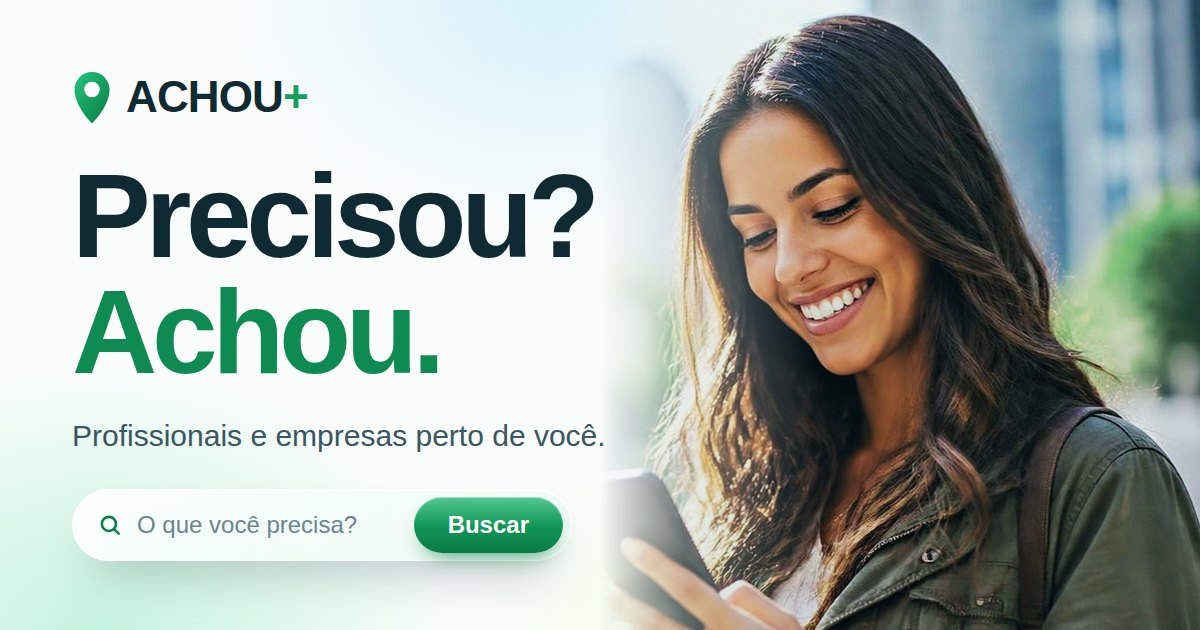
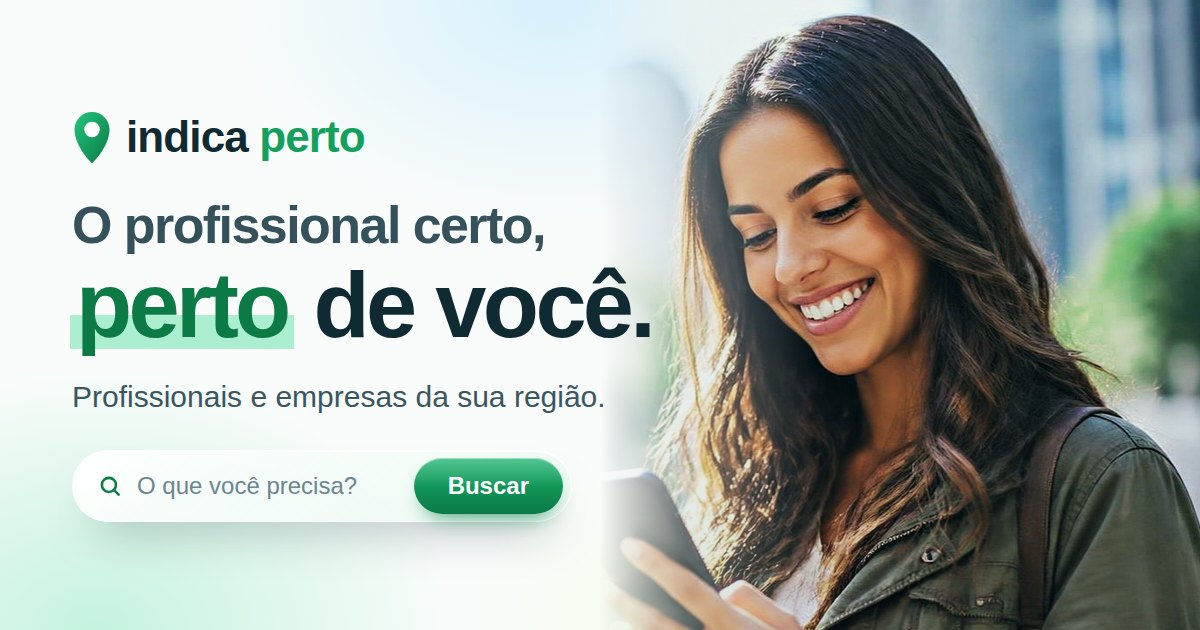
Add files via upload

Changed region(s): [[0.0308, 0.0905, 0.555, 0.9349]]

diff --git a/index.html b/index.html
@@ -3,21 +3,21 @@
 <head>
 <meta charset="utf-8">
 <meta name="viewport" content="width=device-width, initial-scale=1">
-<title>ACHOU+ — Precisou? Achou. Profissionais perto de você</title>
+<title>Indica Perto — O profissional certo, perto de você</title>
 <meta name="description" content="Encontre profissionais e empresas de confiança perto de você. Busque por categoria, veja avaliações e chame no WhatsApp na hora.">
-<meta property="og:title" content="ACHOU+ — Precisou? Achou.">
+<meta property="og:title" content="Indica Perto — O profissional certo, perto de você">
 <meta property="og:description" content="Profissionais e empresas de confiança perto de você, em segundos.">
 <meta property="og:type" content="website">
 <meta name="twitter:card" content="summary_large_image">
 <!-- Vista previa ao compartilhar + ícones. Ao trocar de domínio, atualize as URLs abaixo (og:url, og:image, twitter:image). -->
-<meta property="og:site_name" content="ACHOU+">
+<meta property="og:site_name" content="Indica Perto">
 <meta property="og:locale" content="pt_BR">
 <meta property="og:url" content="https://addlabsbr.github.io/achou-plus/">
 <meta property="og:image" content="https://addlabsbr.github.io/achou-plus/og-image.jpg">
 <meta property="og:image:type" content="image/jpeg">
 <meta property="og:image:width" content="1200">
 <meta property="og:image:height" content="630">
-<meta property="og:image:alt" content="ACHOU+ — Precisou? Achou. Profissionais e empresas perto de você">
+<meta property="og:image:alt" content="Indica Perto — O profissional certo, perto de você">
 <meta name="twitter:image" content="https://addlabsbr.github.io/achou-plus/og-image.jpg">
 <meta name="theme-color" content="#0F9A57">
 <link rel="icon" type="image/svg+xml" href="favicon.svg">
@@ -25,7 +25,7 @@
 <link rel="apple-touch-icon" href="apple-touch-icon.png">
 <link rel="preconnect" href="https://fonts.googleapis.com">
 <link rel="preconnect" href="https://fonts.gstatic.com" crossorigin>
-<link href="https://fonts.googleapis.com/css2?family=Plus+Jakarta+Sans:wght@500;600;700;800&family=Inter:wght@400;500;600&family=Caveat:wght@600&family=JetBrains+Mono:wght@500;600&display=swap" rel="stylesheet">
+<link href="https://fonts.googleapis.com/css2?family=Plus+Jakarta+Sans:wght@500;600;700;800&family=Inter:wght@400;500;600&family=Bricolage+Grotesque:opsz,wght@12..96,600..800&family=JetBrains+Mono:wght@500;600&display=swap" rel="stylesheet">
 <script src="https://www.gstatic.com/firebasejs/10.12.2/firebase-app-compat.js"></script>
 <script src="https://www.gstatic.com/firebasejs/10.12.2/firebase-auth-compat.js"></script>
 <script src="https://www.gstatic.com/firebasejs/10.12.2/firebase-firestore-compat.js"></script>
@@ -76,8 +76,6 @@ html{scroll-padding-top:96px}
 .hero::before{content:"";position:absolute;inset:0;z-index:-1;pointer-events:none;background:linear-gradient(90deg,rgba(250,252,251,.98) 0%,rgba(250,252,251,.93) 26%,rgba(250,252,251,.62) 44%,rgba(250,252,251,.12) 60%,rgba(250,252,251,0) 70%),linear-gradient(180deg,rgba(250,252,251,.26) 0%,rgba(250,252,251,0) 20%)}
 .hero-sheet{position:absolute;left:0;right:0;bottom:0;height:46px;z-index:0;background:var(--bg);border-radius:42px 42px 0 0;box-shadow:0 -24px 46px -28px rgba(15,42,51,.30)}
 .hero-inner{position:relative;z-index:1;width:100%;max-width:1180px;margin:0 auto;padding:0 20px;display:grid;grid-template-columns:minmax(0,1.05fr) minmax(0,.95fr);gap:clamp(24px,4vw,52px);align-items:center}
-.hero h1{font-size:clamp(40px,6.4vw,68px);line-height:1.02;font-weight:800;margin:16px 0 0}
-.hero h1 .line-2{display:block;color:var(--green);background:linear-gradient(100deg,#0B7A45 0%,#15A862 70%,#22BF78 100%);-webkit-background-clip:text;background-clip:text;-webkit-text-fill-color:transparent}
 .hero-copy>p:not(.hero-note){color:#2F4A55;font-size:clamp(16px,1.6vw,18px);max-width:460px;margin:16px 0 0}
 .location-pill{display:inline-flex;align-items:center;gap:9px;background:rgba(255,255,255,.58);border:1px solid rgba(18,160,92,.28);color:var(--green-d);padding:8px 16px;border-radius:999px;font-family:'JetBrains Mono',monospace;font-size:11px;letter-spacing:.12em;font-weight:600;text-transform:uppercase;-webkit-backdrop-filter:blur(14px) saturate(160%);backdrop-filter:blur(14px) saturate(160%);box-shadow:inset 0 1px 0 rgba(255,255,255,.9),0 8px 18px -12px rgba(15,42,51,.35)}
 .location-pill:hover,.location-pill.active{background:rgba(230,246,236,.85)}
@@ -386,6 +384,47 @@ footer::before{content:"";position:absolute;inset:0;z-index:-1;pointer-events:no
 .load-more:hover{transform:translateY(-1px);border-color:rgba(18,160,92,.4)}
 .load-more:disabled{opacity:.6;cursor:default;transform:none}
 
+/* TIPOGRAFÍA DE MARCA — para probar otra fuente cambia solo la variable (p. ej. 'Sora', 'Outfit' o 'Manrope') y el nombre en el <link> de Google Fonts */
+:root{--font-display:'Bricolage Grotesque','Plus Jakarta Sans','Inter',system-ui,sans-serif}
+#siteHeader .logo{font-family:var(--font-display);font-size:27px;font-weight:800;letter-spacing:-.045em;gap:7px;line-height:1}
+.f-brand strong{font-family:var(--font-display);font-size:30px;letter-spacing:-.045em}
+.m-b-brand strong{font-family:var(--font-display);letter-spacing:-.04em}
+.hero h1{font-family:var(--font-display);font-weight:800;font-size:clamp(50px,4.9vw,72px);line-height:1;letter-spacing:-.04em;margin:18px 0 0;color:var(--ink);white-space:normal}
+.hero h1 .h1-a{display:block;font-size:.46em;font-weight:600;letter-spacing:-.02em;line-height:1.2;color:#35515C;margin-bottom:.22em}
+.hero h1 .h1-b{display:block}
+.hero h1 mark{color:#0B7A45;background:linear-gradient(180deg,transparent 60%,rgba(74,222,155,.42) 60%,rgba(74,222,155,.42) 93%,transparent 93%);padding:0 .06em;margin:0 -.02em;border-radius:.1em;-webkit-box-decoration-break:clone;box-decoration-break:clone}
+@media(max-width:900px){.hero h1{font-size:clamp(38px,10.4vw,60px)}}
+
+/* HERO — más atractivo: buscador visible sin hacer scroll, entrada escalonada, resaltado que se dibuja, carrusel de ejemplos */
+@media(max-width:900px){.hero{--ph:min(90vw,400px)}}
+.location-pill{margin-top:14px}
+.search-ticket input::placeholder{transition:opacity .26s ease}
+.search-ticket input.ph-out::placeholder{opacity:0}
+@media(min-width:901px){
+  .search-ticket{max-width:560px;padding:8px 8px 8px 6px}
+  .search-ticket input{font-size:16px}
+  .search-ticket button{padding:15px 30px;font-size:16px}
+}
+@media(max-width:700px){
+  .quick{flex-wrap:nowrap;overflow-x:auto;margin-right:-20px;padding:2px 24px 6px 0;scrollbar-width:none;-webkit-overflow-scrolling:touch;-webkit-mask-image:linear-gradient(90deg,#000 86%,transparent);mask-image:linear-gradient(90deg,#000 86%,transparent)}
+  .quick::-webkit-scrollbar{display:none}
+  .qchip{flex:none}
+}
+@keyframes rise{from{opacity:0;transform:translateY(16px)}to{opacity:1;transform:none}}
+@keyframes markdraw{to{background-size:100% 100%}}
+.hero-copy>*{animation:rise .8s cubic-bezier(.2,.7,.2,1) both}
+.hero-copy>*:nth-child(1){animation-delay:.05s}
+.hero-copy>*:nth-child(2){animation-delay:.18s}
+.hero-copy>*:nth-child(3){animation-delay:.30s}
+.hero-copy>*:nth-child(4){animation-delay:.40s}
+.hero-copy>*:nth-child(5){animation-delay:.50s}
+.hero-copy>*:nth-child(6){animation-delay:.58s}
+.hero h1 mark{background-repeat:no-repeat;background-position:0 0;background-size:0% 100%;animation:markdraw .8s .75s cubic-bezier(.2,.7,.2,1) forwards}
+@media (prefers-reduced-motion:reduce){
+  .hero-copy>*{animation:none}
+  .hero h1 mark{animation:none;background-size:100% 100%}
+}
+
 /* Quality floor: focus, reduced motion, no-blur fallback */
 #siteHeader a:focus-visible,#siteHeader button:focus-visible,.hero a:focus-visible,.hero button:focus-visible,.cta button:focus-visible{outline:2px solid var(--green);outline-offset:3px}
 footer a:focus-visible{outline:2px solid var(--mint);outline-offset:3px}
@@ -405,7 +444,7 @@ footer a:focus-visible{outline:2px solid var(--mint);outline-offset:3px}
 <body>
 
 <header id="siteHeader">
-    <a href="#top" class="logo" style="text-decoration:none;">ACHOU<span>+</span></a>
+    <a href="#top" class="logo" style="text-decoration:none;">indica <span>perto</span></a>
 
     <button class="menu-toggle" id="menuToggle" aria-label="Abrir menu" aria-expanded="false" onclick="toggleMobileMenu()">
         <span></span><span></span><span></span>
@@ -431,14 +470,10 @@ footer a:focus-visible{outline:2px solid var(--mint);outline-offset:3px}
     <div class="hero-sheet" aria-hidden="true"></div>
     <div class="hero-inner">
     <div class="hero-copy">
-        <button class="location-pill" id="locationPill" onclick="requestLocation()">
-            <span class="pulse-dot"></span>
-            <span class="txt" id="locationText">ATIVAR MINHA LOCALIZAÇÃO</span>
-        </button>
 
-        <h1>PRECISOU?<br><span class="line-2">ACHOU.</span></h1>
+        <h1><span class="h1-a">O profissional certo,</span><span class="h1-b"><mark>perto</mark> de você.</span></h1>
 
-        <p>Descreva o que você precisa e veja quem pode te atender agora, perto de você.</p>
+        <p>Descreva o que você precisa e veja quem pode te atender agora.</p>
 
         <div class="search-ticket">
             <label class="st-field"><svg class="st-ico" viewBox="0 0 24 24" fill="none" stroke="currentColor" stroke-width="2.2" stroke-linecap="round" stroke-linejoin="round" aria-hidden="true"><circle cx="11" cy="11" r="6.5"/><path d="M20 20l-4.2-4.2"/></svg><input id="searchInput" type="text" placeholder="O que você precisa? Ex: conserto de celular" aria-label="Buscar serviço ou profissional" enterkeyhint="search" autocomplete="off" onkeyup="searchBusiness(event)"></label>
@@ -450,7 +485,14 @@ footer a:focus-visible{outline:2px solid var(--mint);outline-offset:3px}
             <button type="button" class="qchip" style="--d:#6D3FE0" onclick="quickCat('Informática')">Informática</button>
             <button type="button" class="qchip" style="--d:#C2338F" onclick="quickCat('Beleza')">Beleza</button>
             <button type="button" class="qchip" style="--d:#0E8F86" onclick="quickCat('Casa')">Casa</button>
+            <button type="button" class="qchip" style="--d:#C27A00" onclick="quickCat('Automóveis')">Automóveis</button>
+            <button type="button" class="qchip" style="--d:#12A05C" onclick="quickCat('Pets')">Pets</button>
         </div>
+
+        <button class="location-pill" id="locationPill" onclick="requestLocation()">
+            <span class="pulse-dot"></span>
+            <span class="txt" id="locationText">ATIVAR MINHA LOCALIZAÇÃO</span>
+        </button>
 
         <ul class="trust" aria-label="Vantagens">
             <li><svg viewBox="0 0 24 24" fill="none" stroke="currentColor" stroke-width="3.2" stroke-linecap="round" stroke-linejoin="round" aria-hidden="true"><path d="M5 12.5l4.5 4.5L19 7.5"/></svg>Grátis para quem procura</li>
@@ -570,7 +612,7 @@ footer a:focus-visible{outline:2px solid var(--mint);outline-offset:3px}
 <div class="container desk-only">
     <div class="section-title reveal">
         <h2>Vantagens para você</h2>
-        <span class="eyebrow">POR QUE USAR O ACHOU+</span>
+        <span class="eyebrow">POR QUE USAR A INDICA PERTO</span>
     </div>
     <div class="adv reveal">
         <div class="adv-card"><div class="ic">📍</div><h3>Perto de verdade</h3><p>Resultados ordenados pela distância real até você.</p></div>
@@ -581,7 +623,7 @@ footer a:focus-visible{outline:2px solid var(--mint);outline-offset:3px}
 </div>
 
 <section class="m-adv m-only" aria-labelledby="mAdvTitle">
-    <span class="m-eyebrow">Por que escolher o ACHOU+</span>
+    <span class="m-eyebrow">Por que escolher a Indica Perto</span>
     <h2 id="mAdvTitle">Vantagens para você</h2>
     <ul class="m-adv-grid">
         <li class="m-adv-card"><span class="m-adv-ic ic-bolt"><svg class="" viewBox="0 0 24 24" fill="currentColor" aria-hidden="true"><path d="M13.6 2L4.6 13.4h6L9.6 22l9-11.4h-6z"/></svg></span><div class="m-adv-tx"><h3>Mais praticidade</h3><p>Tudo o que você precisa em um só lugar.</p></div><svg class="m-chev" viewBox="0 0 24 24" fill="none" stroke="currentColor" stroke-width="2.6" stroke-linecap="round" stroke-linejoin="round" aria-hidden="true"><path d="M9 5l7 7-7 7"/></svg></li>
@@ -590,7 +632,7 @@ footer a:focus-visible{outline:2px solid var(--mint);outline-offset:3px}
         <li class="m-adv-card"><span class="m-adv-ic ic-star"><svg class="" viewBox="0 0 24 24" fill="currentColor" aria-hidden="true"><path d="M12 2.6l2.95 6 6.6.95-4.8 4.65 1.15 6.6L12 17.7l-5.9 3.1 1.15-6.6L2.45 9.55l6.6-.95z"/></svg></span><div class="m-adv-tx"><h3>Mais avaliações</h3><p>Escolha com confiança através de opiniões reais.</p></div><svg class="m-chev" viewBox="0 0 24 24" fill="none" stroke="currentColor" stroke-width="2.6" stroke-linecap="round" stroke-linejoin="round" aria-hidden="true"><path d="M9 5l7 7-7 7"/></svg></li>
     </ul>
     <a class="m-banner" href="#top" role="button" onclick="goSearch();return false;" aria-label="Precisa de um serviço? A gente te ajuda a encontrar">
-        <span class="m-b-brand"><svg viewBox="0 0 32 44" aria-hidden="true"><defs><linearGradient id="mbpg" x1="0" y1="0" x2="1" y2="1"><stop offset="0" stop-color="#22C57B"/><stop offset="1" stop-color="#0C7F48"/></linearGradient></defs><path d="M16 43.2S30 29.6 30 16a14 14 0 0 0-28 0c0 13.6 14 27.2 14 27.2z" fill="url(#mbpg)"/><circle cx="16" cy="16" r="6.2" fill="#fff"/></svg><span><strong>ACHOU<span>+</span></strong><small>Serviços perto de você</small></span></span>
+        <span class="m-b-brand"><svg viewBox="0 0 32 44" aria-hidden="true"><defs><linearGradient id="mbpg" x1="0" y1="0" x2="1" y2="1"><stop offset="0" stop-color="#22C57B"/><stop offset="1" stop-color="#0C7F48"/></linearGradient></defs><path d="M16 43.2S30 29.6 30 16a14 14 0 0 0-28 0c0 13.6 14 27.2 14 27.2z" fill="url(#mbpg)"/><circle cx="16" cy="16" r="6.2" fill="#fff"/></svg><span><strong>indica <span>perto</span></strong><small>Serviços perto de você</small></span></span>
         <span class="m-b-div" aria-hidden="true"></span>
         <span class="m-b-text"><small>Precisa de um serviço?</small><b>A gente te ajuda a encontrar!</b></span>
         <span class="m-b-go"><svg class="" viewBox="0 0 24 24" fill="none" stroke="currentColor" stroke-width="2" stroke-linecap="round" stroke-linejoin="round" aria-hidden="true"><path d="M5 12h14M13 6l6 6-6 6"/></svg></span>
@@ -611,8 +653,8 @@ footer a:focus-visible{outline:2px solid var(--mint);outline-offset:3px}
     <div class="footer-glass">
         <div class="f-top">
             <div class="f-brand">
-                <strong>ACHOU<span>+</span></strong>
-                <p>Precisou? Achou.</p>
+                <strong>indica <span>perto</span></strong>
+                <p>O profissional certo, perto de você.</p>
             </div>
             <nav class="f-links" aria-label="Rodapé">
                 <a href="termos-de-uso.html">Termos de Uso</a>
@@ -635,9 +677,23 @@ var f=function(){h.classList.toggle('scrolled',window.scrollY>24)};
 f();window.addEventListener('scroll',f,{passive:true});})();
 </script>
 <script>
-(function(){var i=document.getElementById('searchInput');if(!i||!window.matchMedia)return;var full=i.getAttribute('placeholder');var mq=window.matchMedia('(max-width:520px)');
-function set(){i.setAttribute('placeholder',mq.matches?'O que você precisa?':full)}set();
-if(mq.addEventListener)mq.addEventListener('change',set);else if(mq.addListener)mq.addListener(set);})();
+(function(){
+  var i=document.getElementById('searchInput');if(!i)return;
+  var ex=['conserto de celular','eletricista','salão de beleza','mecânico','banho e tosa','diarista','personal trainer'];
+  var mq=window.matchMedia?window.matchMedia('(max-width:520px)'):{matches:false};
+  var reduz=window.matchMedia&&window.matchMedia('(prefers-reduced-motion: reduce)').matches;
+  var n=0;
+  function texto(){return (mq.matches?'Ex: ':'O que você precisa? Ex: ')+ex[n];}
+  function aplicar(){i.setAttribute('placeholder',texto());}
+  aplicar();
+  if(mq.addEventListener)mq.addEventListener('change',aplicar);else if(mq.addListener)mq.addListener(aplicar);
+  if(reduz)return;
+  setInterval(function(){
+    if(document.activeElement===i||i.value)return;
+    i.classList.add('ph-out');
+    setTimeout(function(){n=(n+1)%ex.length;aplicar();i.classList.remove('ph-out');},260);
+  },2800);
+})();
 function goSearch(){
   var box=document.querySelector('.search-ticket'),input=document.getElementById('searchInput');
   if(!box||!input)return;
@@ -660,7 +716,7 @@ function quickCat(c){var el=document.querySelector('.category[data-cat="'+c+'"]'
 
 <template id="tpl-login">
     <h3>Entrar</h3>
-    <p class="modal-sub">Acesse sua conta ACHOU+.</p>
+    <p class="modal-sub">Acesse sua conta na Indica Perto.</p>
     <form id="loginForm" onsubmit="return handleLogin(event)">
         <div class="field"><label>E-mail</label><input id="loginEmail" type="email" required></div>
         <div class="field"><label>Senha</label><input id="loginSenha" type="password" required></div>
@@ -674,7 +730,7 @@ function quickCat(c){var el=document.querySelector('.category[data-cat="'+c+'"]'
 
 <template id="tpl-criar-conta">
     <h3>Criar conta</h3>
-    <p class="modal-sub">Só o necessário para deixar avaliações no ACHOU+. Se você tem uma empresa, use "Cadastrar empresa" em vez disso.</p>
+    <p class="modal-sub">Só o necessário para deixar avaliações na Indica Perto. Se você tem uma empresa, use "Cadastrar empresa" em vez disso.</p>
     <form id="criarContaForm" onsubmit="return handleCriarConta(event)">
         <div class="field"><label>Nome</label><input id="ccNome" type="text" required></div>
         <div class="field"><label>E-mail</label><input id="ccEmail" type="email" required></div>
@@ -728,7 +784,7 @@ function quickCat(c){var el=document.querySelector('.category[data-cat="'+c+'"]'
             <a href="termos-de-uso.html" target="_blank" style="color:var(--accent-dark);font-weight:700;">Termos de Uso</a>
             e a
             <a href="politica-privacidade.html" target="_blank" style="color:var(--accent-dark);font-weight:700;">Política de Privacidade</a>
-            do ACHOU+.
+            da Indica Perto.
         </p>
         <button class="modal-submit" type="submit">Enviar cadastro</button>
     </form>
@@ -1296,7 +1352,7 @@ function filterCategory(category, el){
 function whatsapp(empresaId){
     const empresa = allEmpresas.find(e => e.id === empresaId);
     if(!empresa) return;
-    const msg = encodeURIComponent(`Olá! Vi seu anúncio no ACHOU+ e preciso de ajuda com um serviço.`);
+    const msg = encodeURIComponent(`Olá! Vi seu anúncio na Indica Perto e preciso de ajuda com um serviço.`);
     window.open(`https://wa.me/${empresa.whatsapp}?text=${msg}`, '_blank');
 }
 
@@ -1527,7 +1583,7 @@ function handleCriarConta(e){
             });
         })
         .then(() => {
-            showSuccess('Conta criada!', 'Agora você já pode deixar avaliações nas empresas do ACHOU+.');
+            showSuccess('Conta criada!', 'Agora você já pode deixar avaliações nas empresas da Indica Perto.');
         })
         .catch(err => {
             erroEl.textContent = traduzErroFirebase(err);
@@ -1601,7 +1657,7 @@ function handleRegister(e){
             return batch.commit();
         })
         .then(() => {
-            showSuccess('Cadastro recebido!', 'Sua empresa entrou na fila de análise. Assim que for aprovada, aparece nas buscas do ACHOU+.');
+            showSuccess('Cadastro recebido!', 'Sua empresa entrou na fila de análise. Assim que for aprovada, aparece nas buscas da Indica Perto.');
         })
         .catch(err => {
             erroEl.textContent = traduzErroFirebase(err);
